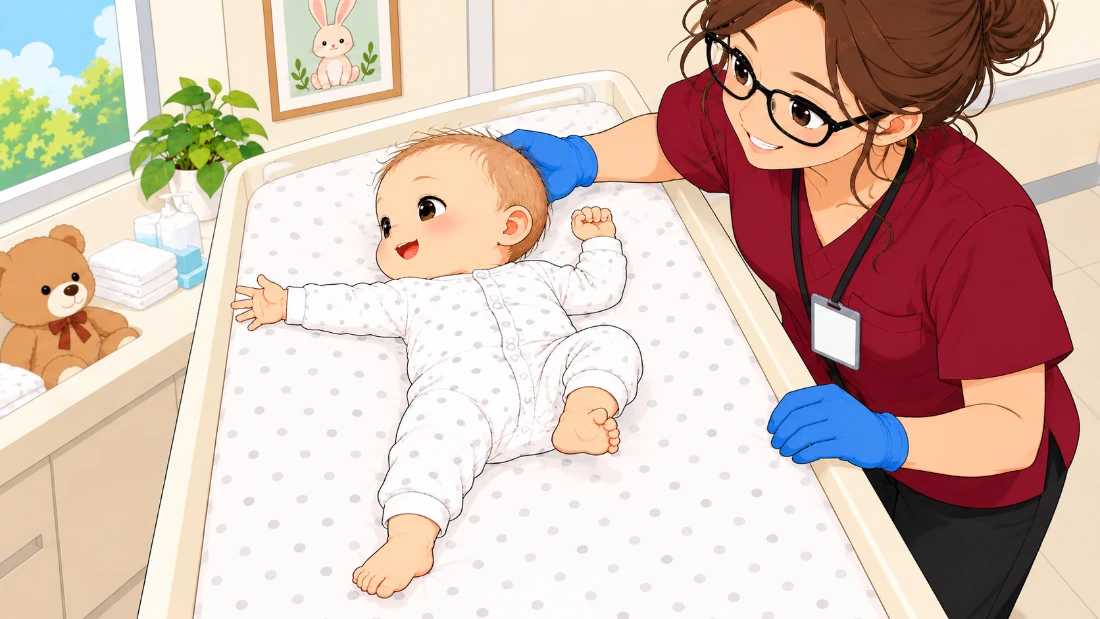
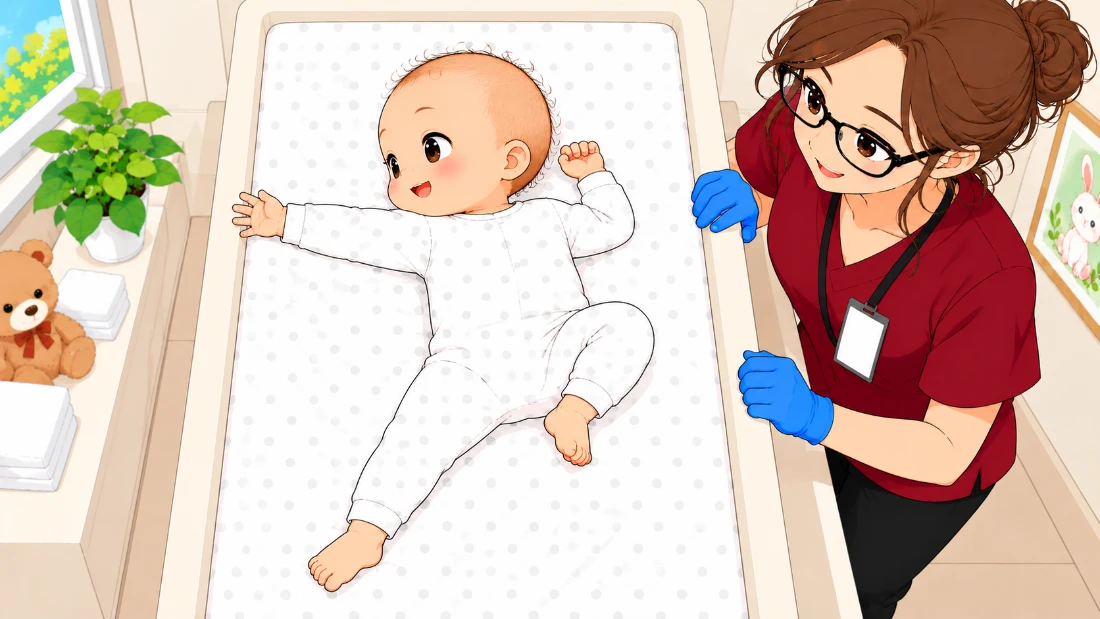
Guia: resultados de busqueda junto al buscador; 3 reflejos rehechos

diff --git a/guia-anticonceptivos.html b/guia-anticonceptivos.html
@@ -210,6 +210,8 @@ h1,h2{color:#E9DEFF}
     <button class="chip" data-f="aps" aria-pressed="false">En la red pública</button>
   </div>
 
+  <div id="hit"></div>
+  <div class="grid" id="grid"></div>
   <section class="legal" id="legal">
     <h2>⚖ Importante para adolescentes</h2>
     <p><b>A cualquier edad</b> puedes pedir orientación y un método anticonceptivo en tu CESFAM, sola o acompañada, y la atención es <b>confidencial</b> (Ley 20.418 y Normas de Regulación de la Fertilidad). No te pueden exigir permiso de tus padres.</p>
@@ -244,8 +246,6 @@ h1,h2{color:#E9DEFF}
     <h2 style="font-family:var(--display);color:var(--violeta);margin:0;font-size:26px">Mitos y verdades: toca cada tarjeta</h2>
     <div class="flip" id="flip"></div>
   </section>
-  <div id="hit"></div>
-  <div class="grid" id="grid"></div>
 
   <section class="salud" id="dolor">
     <h2>¿Te duele la regla?</h2>
@@ -431,7 +431,7 @@ function render(){
   $("#grid").innerHTML=list.length?list.map(m=>`<button class="card" data-id="${m.id}" aria-label="Ver ${esc(m.nombre)}">
     <div class="art">${ART[m.id]}</div><h3>${esc(m.nombre)}</h3><div class="brands">${hl(m.resumen,q)}</div>
     <div class="meter"><div class="bar"><i style="width:${m.efn==null?100:Math.max(6,100-m.efn*6)}%;background:${efColor(m.efn)}"></i></div><span>${esc(m.efn==null?"Emergencia":m.ef+"/100")}</span></div>
-    <div class="tags">${m.tags.map(t=>`<span class="tag">${TAGN[t]}</span>`).join("")}</div></button>`).join(""):`<div class="empty">Esa marca no aparece entre los anticonceptivos. Revisa la tabla de abajo o prueba con el nombre de la hormona.</div>`;
+    <div class="tags">${m.tags.map(t=>`<span class="tag">${TAGN[t]}</span>`).join("")}</div></button>`).join(""):(filtro!=="all"&&DATA.metodos.some(m=>matches(m,q))?`<div class="empty">Con el filtro «${TAGN[filtro]}» no aparece. Toca «Todos» para verlo.</div>`:`<div class="empty">Esa marca no aparece entre los anticonceptivos. Prueba con el nombre de la hormona.</div>`);
   // marca exacta
   let hit="";
   if(q.length>=3){
